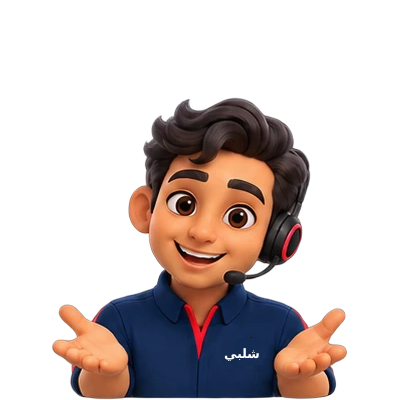
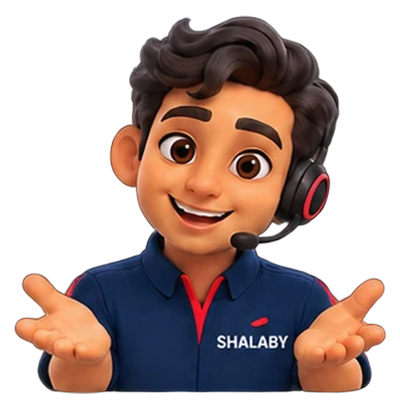
Shalaby character: replace the 16 mood images with the new SHALABY sheet
Claude-Session: https://claude.ai/code/session_01Fz7hSjHcwJHkqm3iWGbmMB

diff --git a/src/components/zaki/ZakiAvatar.tsx b/src/components/zaki/ZakiAvatar.tsx
@@ -12,7 +12,7 @@ const drawingFallback: Partial<Record<ZakiMood, ZakiMood>> = {
 /** Drop PNG/WebP files named after each mood into public/zaki/ and they replace the built-in drawing automatically. */
 const FILE_BASE = "/zaki/";
 // Bump when the pictures change: browsers keep images for a week, so a new version needs a new address.
-const ART_VERSION = "shalaby-2";
+const ART_VERSION = "shalaby-3";
 const known = new Map<string, "ok" | "bad">();
 
 function useArt(mood: ZakiMood) {

diff --git a/docs/zaki-character-prompt.md b/docs/zaki-character-prompt.md
@@ -1,7 +1,7 @@
 # برومبت شخصية شلبي (لتوليد الصور)
 
 ## الوصف الأساسي (الصقه في كل مرة)
-Cute friendly Egyptian sales-support employee mascot named "Zaki", early 30s, warm tan skin, short neat dark-brown hair, big expressive dark eyes with small white highlights, rosy cheeks, soft smile. He wears a deep brand-red polo shirt with a small white collar and a tiny white name tag, and a slim black customer-service headset with a red ear cushion. Half-body portrait (head and shoulders to chest), centered, facing slightly toward the viewer. Style: modern 3D-cartoon / Pixar-like, soft rounded shapes, smooth lighting, clean vector-like finish, consistent proportions. Transparent background, no text, no shadow on the ground, square 1:1 canvas, 1024x1024.
+Cute friendly Egyptian sales-support employee mascot named "Shalaby", early 30s, warm tan skin, short neat dark-brown hair, big expressive dark eyes with small white highlights, rosy cheeks, soft smile. He wears a deep brand-red polo shirt with a small white collar and a tiny white name tag, and a slim black customer-service headset with a red ear cushion. Half-body portrait (head and shoulders to chest), centered, facing slightly toward the viewer. Style: modern 3D-cartoon / Pixar-like, soft rounded shapes, smooth lighting, clean vector-like finish, consistent proportions. Transparent background, no text, no shadow on the ground, square 1:1 canvas, 1024x1024.
 
 ## التعابير المطلوبة (غيّر السطر ده بس، وخلّي الباقي زي ما هو)
 1. idle: calm friendly smile, eyes open, looking at the viewer.
@@ -18,3 +18,8 @@ Cute friendly Egyptian sales-support employee mascot named "Zaki", early 30s, wa
 - استخدم نفس الـ seed / نفس الصورة المرجعية للتعبير الأول عشان الوش يفضل ثابت.
 - خليه PNG بخلفية شفافة، ومتسمي بالظبط: idle.png wave.png thinking.png happy.png talking.png listening.png sorry.png surprised.png sleepy.png
 - حطهم في المجلد public/zaki/ وهيتبدلوا تلقائيًا مكان الرسمة المدمجة، من غير أي تعديل في الكود.
+
+## النسخة الحالية (16 تعبير)
+الصور الحالية في `public/zaki/` مقصوصة من شيت واحد 4×4 (قميص كحلي مكتوب عليه SHALABY). الأسماء بالترتيب (صف صف):
+idle, wave, listening, thinking / talking, offer, happy, cheer / sorry, confused, surprised, thanks / watch, sleepy, point, bye.
+لو غيّرت الصور، ارفع قيمة `ART_VERSION` في `src/components/zaki/ZakiAvatar.tsx` عشان المتصفحات تحمّلها من جديد.
